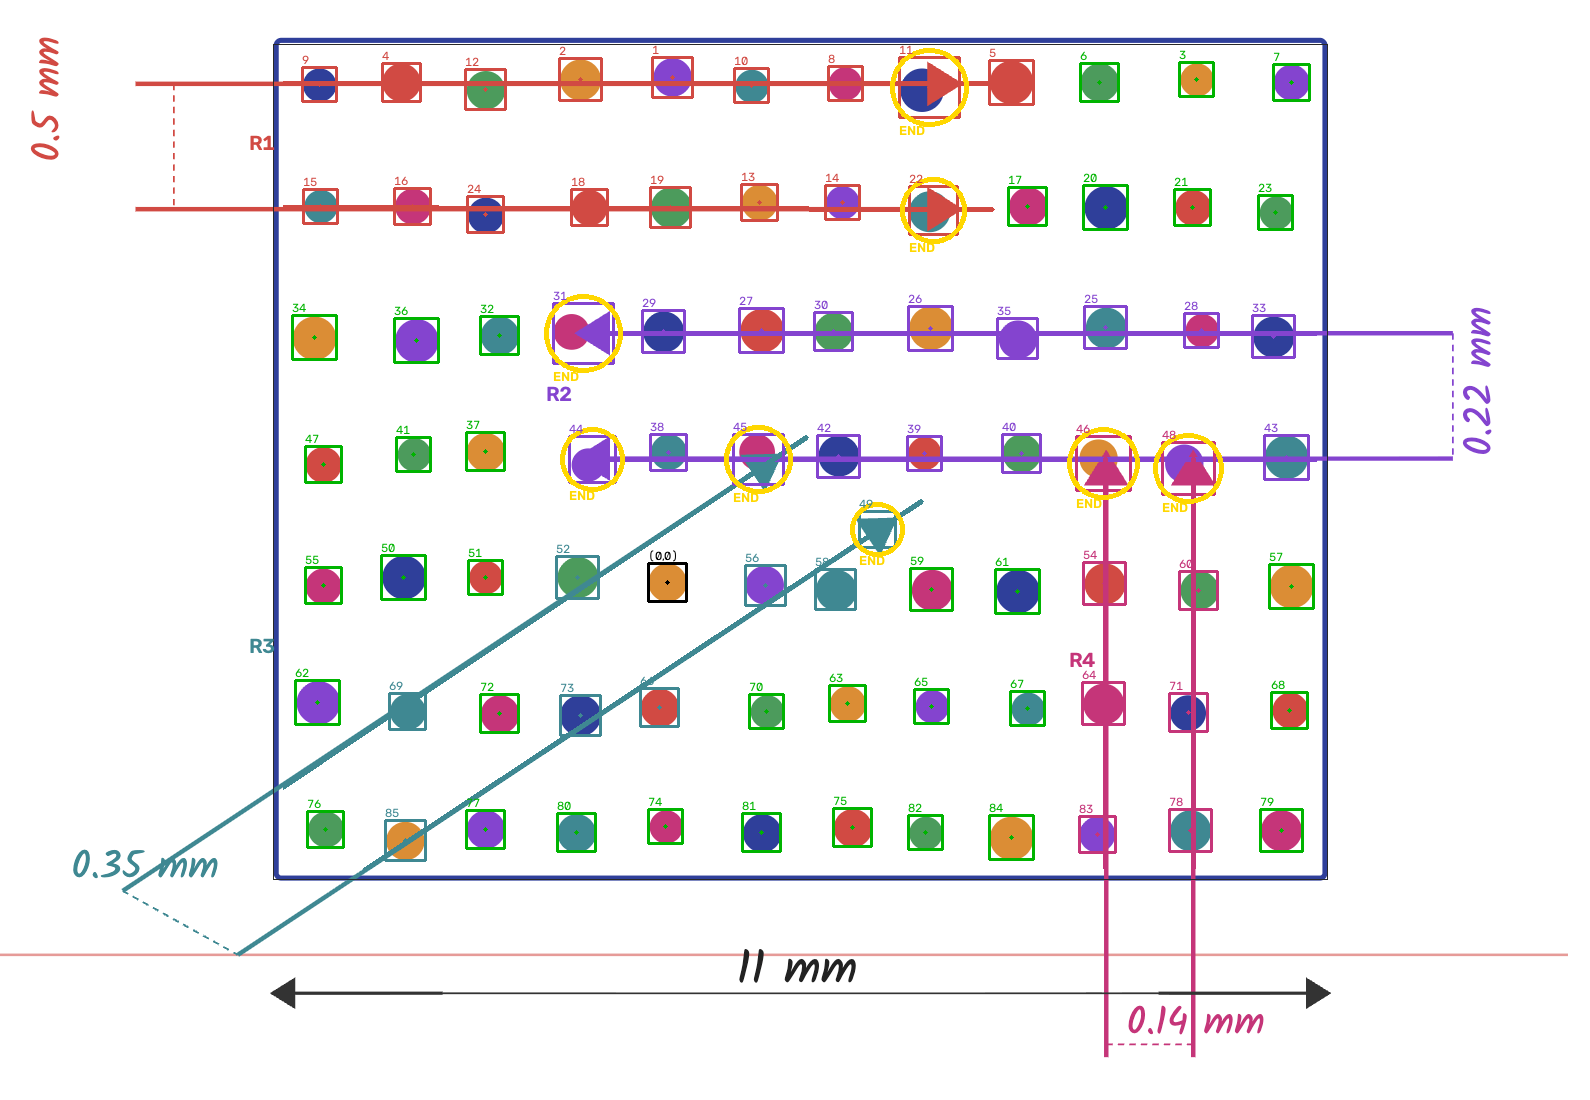
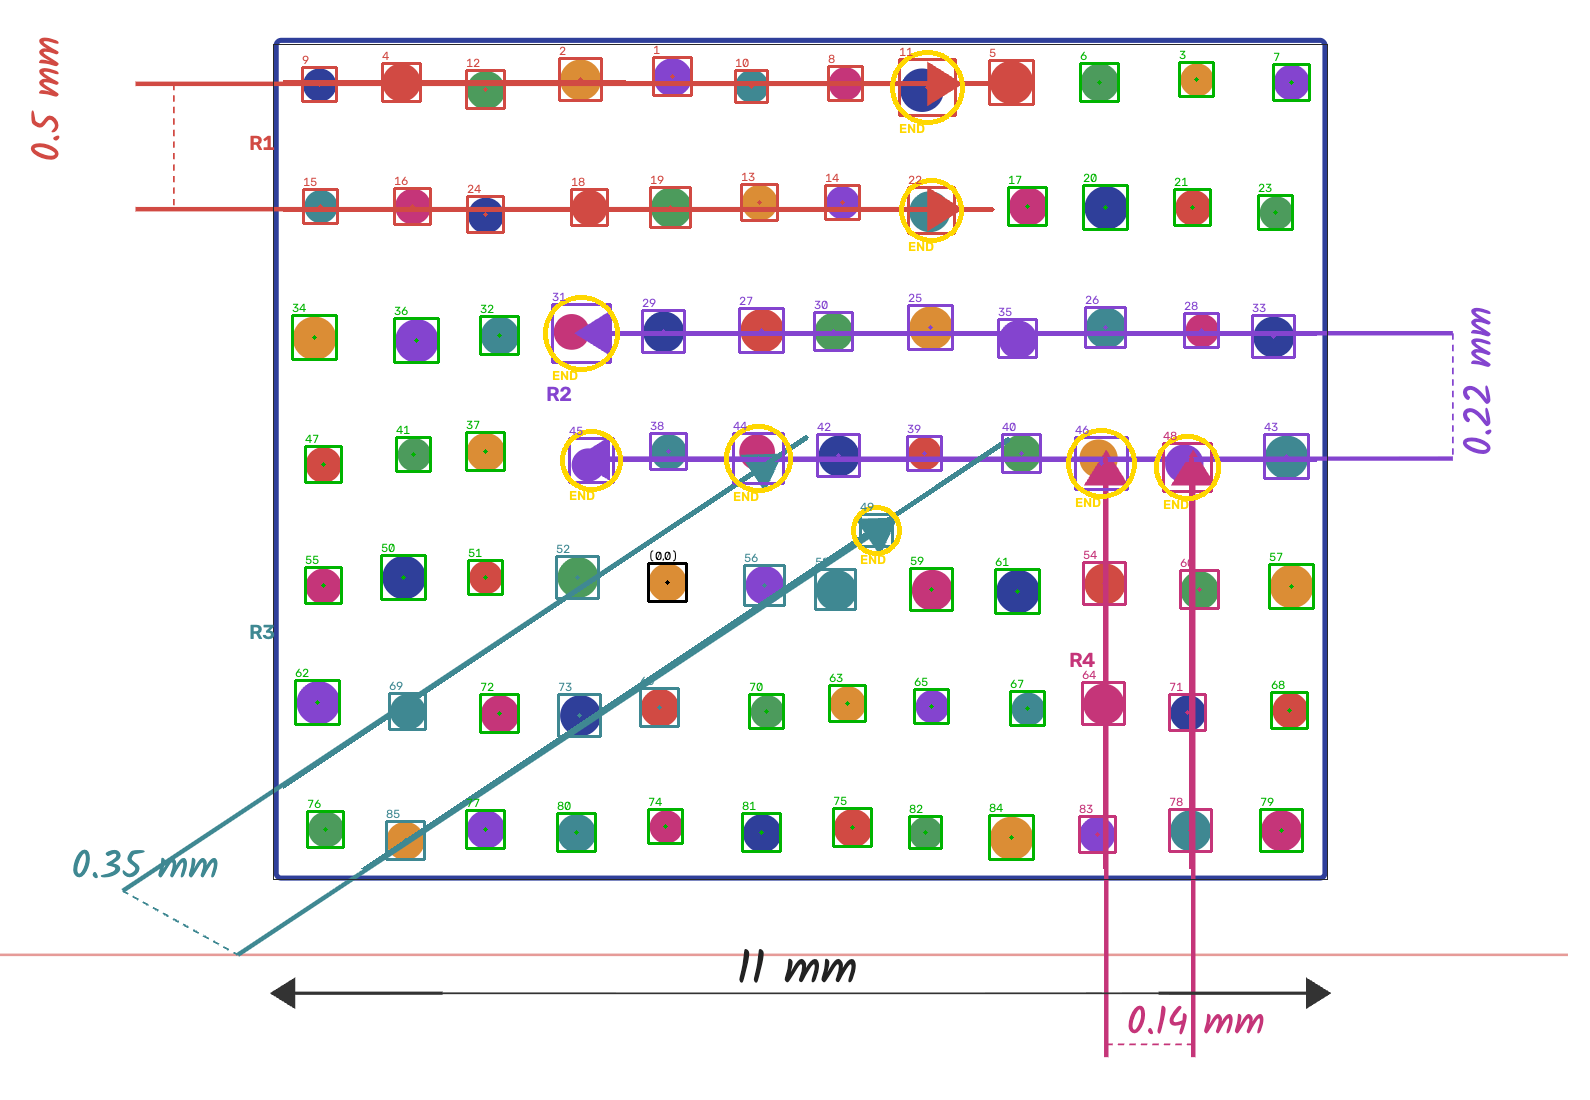
Fix detection on fine-pitch, densely populated drawings (BGA ball maps)
On a BGA-style drawing the pipeline detected almost nothing and invented a
reference group out of the package outline. Three separate causes:

RETR_EXTERNAL dropped every dot. Such drawings carry an inner frame
(package / ball-array outline) that ENCLOSES the dots, making each one a
nested child contour that RETR_EXTERNAL discards by definition. On a
22x22 fixture this detected 0 of 484 balls. Use RETR_LIST; the existing
area/radius/circularity filters reject the frame itself anyway.

The stroke-removal kernel was too timid. open_ksize = 0.55*r0 gives 5px
for r0~7, and a 5px ellipse still fits inside a 3px line, so no line was
ever removed and arrow detection was handed an empty mask. Size it just
under the dot radius instead, so it is wider than any stroke yet still
fits inside a dot.

Frames were read as measurement lines. A rectangle inside the square
turned each of its sides into an arrow and a whole colour group. Suppress
closed frames before Hough, keyed on how completely a contour fills its
bounding box — a frame is ~0.99, a knot of crossing leaders 0.56-0.73, so
real leaders stay. The four straight sides are painted rather than the
contour path, which detours along any leader crossing the frame and would
otherwise erase it end to end.

Also measure the dot PITCH and let the Hough gap span it: a stroke is
interrupted at every dot it crosses, and at 33px pitch the old 4*r0 gap
returned one leader as five unusable fragments.
[…]

diff --git a/run.py b/run.py
@@ -61,6 +61,11 @@ class Config:
     head_hue_tol: float = 12.0     # hue window used to isolate one arrow's own colour
     # FR-1 square (NO crop — mask interior only)
     roi_min_area_frac: float = 0.10
+    # frames drawn INSIDE the square (package / ball-array outline) are not
+    # measurement lines: a closed loop covering this much of the square is one
+    outline_min_area: float = 0.12   # fraction of the square's area
+    outline_rect_fill: float = 0.90  # a frame fills its own bounding box; a
+                                     # tangle of crossing leaders does not
     square_margin: int = 14        # inward margin from the border line (px)
     # FR-5 reference
     reference_strategy: str = "nearest_center"
@@ -72,8 +77,10 @@ class Config:
     calib_axis: str = "width"      # 'width' or 'height' of the square
     calib_pixels: float = 845.0    # used only when auto_calibrate is False
     calib_mm: float = 11.0
-    # filled in by adapt_parameters(): median dot radius, the pipeline's length unit
+    # filled in by adapt_parameters(): median dot radius (the pipeline's length
+    # unit) and the median centre-to-centre spacing of neighbouring dots
     dot_radius: Optional[float] = None
+    dot_pitch: Optional[float] = None
 
     @property
     def r0(self) -> float:
@@ -176,27 +183,50 @@ def adapt_parameters(bgr, mask, cfg):
     if not cfg.adaptive:
         return
     blobs = _nonwhite_mask(bgr, cfg) & mask
-    cnts, _ = cv2.findContours(blobs, cv2.RETR_EXTERNAL, cv2.CHAIN_APPROX_SIMPLE)
+    # RETR_LIST, not RETR_EXTERNAL: a drawing may carry an inner outline (package
+    # / ball-array border) that ENCLOSES the dots. Under RETR_EXTERNAL every dot
+    # is a nested child of that outline and is silently dropped — the whole grid
+    # would go undetected. The filters below reject the outline itself anyway.
+    cnts, _ = cv2.findContours(blobs, cv2.RETR_LIST, cv2.CHAIN_APPROX_SIMPLE)
     area_floor = 0.00002 * mask.size            # ignore specks, relative to image size
-    radii = []
+    radii, centers = [], []
     for c in cnts:
         a = cv2.contourArea(c)
         if a < area_floor:
             continue
-        (_, _), r = cv2.minEnclosingCircle(c)
+        (cx, cy), r = cv2.minEnclosingCircle(c)
         if r > 0 and a / (np.pi * r * r) > 0.7:  # round -> a dot (not a line/arrowhead)
             radii.append(r)
+            centers.append((cx, cy))
     if len(radii) < 5:                          # not enough evidence; keep defaults
         return
     r0 = float(np.median(radii))
     cfg.dot_radius = r0
+    # Dot PITCH, not just dot size: on a fine-pitch grid a stroke is interrupted
+    # at every dot it crosses, and Hough has to jump those blanks or the line
+    # comes back shattered into fragments too short to reconstruct.
+    if len(centers) >= 5:
+        p = np.asarray(centers, float)
+        step = 2048                                   # chunked: grids can be huge
+        nn = []
+        for i in range(0, len(p), step):
+            d = np.linalg.norm(p[i:i + step, None, :] - p[None, :, :], axis=2)
+            np.fill_diagonal(d[:, i:i + step], np.inf)
+            nn.append(d.min(1))
+        cfg.dot_pitch = float(np.median(np.concatenate(nn)))
     odd = lambda k: max(3, int(k) | 1)
     cfg.min_radius = max(3, int(0.45 * r0))
     cfg.max_radius = int(2.6 * r0)
     cfg.min_blob_area = int(0.30 * np.pi * r0 * r0)
-    cfg.open_ksize = odd(round(0.55 * r0))      # > line width, < dot diameter
+    # The opening must DESTROY strokes but KEEP dots, so the kernel has to be
+    # wider than any line yet still fit inside a dot. 0.55*r0 is too timid on
+    # fine-pitch drawings (r0~7 -> a 5px ellipse still fits inside a 3px line,
+    # so no line is ever removed and arrow detection sees nothing). Sit just
+    # under the dot radius instead, which scales safely in both directions.
+    cfg.open_ksize = odd(min(round(0.9 * r0), 2 * r0 - 3))
     cfg.min_line_length = int(3.0 * r0)
-    cfg.arrow_max_gap = int(4.0 * r0)           # jump over a dot + gap along a shaft
+    # jump over a dot + the blank to the next stroke fragment
+    cfg.arrow_max_gap = int(max(4.0 * r0, 1.4 * (cfg.dot_pitch or 0.0)))
     cfg.arrow_extend = int(1.6 * r0)
     cfg.arrow_rho_tol = max(8.0, 1.1 * r0)
     cfg.line_tolerance = max(4, int(0.55 * r0))
@@ -219,7 +249,7 @@ def detect_circles(bgr, mask, cfg) -> List[Circle]:
     blob = cv2.morphologyEx(blob, cv2.MORPH_OPEN,
                             cv2.getStructuringElement(cv2.MORPH_ELLIPSE,
                                                       (cfg.open_ksize, cfg.open_ksize)))
-    cnts, _ = cv2.findContours(blob, cv2.RETR_EXTERNAL, cv2.CHAIN_APPROX_SIMPLE)
+    cnts, _ = cv2.findContours(blob, cv2.RETR_LIST, cv2.CHAIN_APPROX_SIMPLE)  # see adapt_parameters
 
     raw = []
     for c in cnts:
@@ -240,7 +270,44 @@ def detect_circles(bgr, mask, cfg) -> List[Circle]:
     return out
 
 
-def detect_arrows(bgr, mask, cfg):
+def detect_outlines(bgr, mask, cfg, square_bbox):
+    """Strokes belonging to a closed FRAME (package outline, ball-array border).
+
+    A drawing often carries rectangles *inside* the detected square. They are
+    long straight coloured strokes, so arrow detection happily reports each side
+    as a measurement line and invents a whole reference group from them. A
+    measurement leader is an open stroke; a frame is a closed loop enclosing a
+    big share of the square, which is what separates them here — a long, thin
+    dimension line covers a fraction of a percent of that area.
+
+    Returns a mask of those frame strokes, to be subtracted before Hough.
+    """
+    H, W = mask.shape
+    out = np.zeros((H, W), np.uint8)
+    sq_area = max(1.0, float(square_bbox[2] * square_bbox[3]))
+    nonwhite = _nonwhite_mask(bgr, cfg)
+    cnts, _ = cv2.findContours(nonwhite, cv2.RETR_LIST, cv2.CHAIN_APPROX_SIMPLE)
+    for c in cnts:
+        area = cv2.contourArea(c)
+        if area < cfg.outline_min_area * sq_area:
+            continue
+        x, y, w, h = cv2.boundingRect(c)
+        # A rectangular frame fills its own bounding box (~1.0). A knot of
+        # crossing dimension lines spans a big box but fills far less of it,
+        # which is what keeps real leaders out of this mask.
+        if area / max(1.0, float(w * h)) < cfg.outline_rect_fill:
+            continue
+        # Paint the four straight sides, NOT the contour path: where a leader
+        # crosses the frame the contour detours along that leader, and following
+        # it would erase the leader over its whole length.
+        # The band must be wide enough to swallow the whole frame stroke: the
+        # bounding box hugs its OUTER edge, so a hairline band leaves the inner
+        # half behind and Hough still finds a line there.
+        cv2.rectangle(out, (x, y), (x + w, y + h), 255, max(5, int(cfg.r0)))
+    return out
+
+
+def detect_arrows(bgr, mask, cfg, square_bbox=None):
     """FR-3: extract each measurement arrow as a full connected stroke.
 
     Colour strokes (arrows) and filled dots are both saturated, so we isolate
@@ -258,6 +325,8 @@ def detect_arrows(bgr, mask, cfg):
                             cv2.getStructuringElement(cv2.MORPH_ELLIPSE,
                                                       (cfg.open_ksize, cfg.open_ksize)))
     thin = cv2.subtract(colored, cv2.dilate(dots, np.ones((3, 3), np.uint8)))
+    if square_bbox is not None:                # drop package / array frames
+        thin = cv2.subtract(thin, detect_outlines(bgr, mask, cfg, square_bbox))
 
     # Hough on the thin strokes; big gap jumps over the dots each arrow crosses
     segs = cv2.HoughLinesP(thin, 1, np.pi / 180, threshold=40,
@@ -631,7 +700,7 @@ def process_image(image_path, cfg):
     elif cfg.auto_calibrate and cfg.square_real_mm is None:
         cfg.calib_pixels = 0.0                     # no mm conversion requested
     circles = detect_circles(img, mask, cfg)      # FR-2
-    arrows = detect_arrows(img, mask, cfg)        # FR-3: colour-stroke arrows (+ real colour)
+    arrows = detect_arrows(img, mask, cfg, bbox)  # FR-3: colour-stroke arrows (+ real colour)
     groups = group_arrows_by_color(arrows, cfg)   # merge same-colour parallel pairs
     flag_measured(circles, arrows, groups, cfg)   # FR-4 (records reference number)
     ends = detect_line_ends(img, mask, arrows, cfg)              # FR-4b

diff --git a/tests/test_dense_grid.py b/tests/test_dense_grid.py
@@ -1,0 +1,97 @@
+"""Regression tests for fine-pitch, densely populated drawings (e.g. BGA ball maps).
+
+These exercise three failure modes that a coarse drawing never triggers:
+  * the drawing has an inner frame (package / ball-array outline) that ENCLOSES
+    every dot — nested contours must still be detected
+  * dots are small (r ~ 7px), so the stroke-removal kernel has to stay wider
+    than a line while still fitting inside a dot
+  * the frame's four sides must not be mistaken for measurement lines
+"""
+import os
+import sys
+
+import cv2
+import numpy as np
+
+sys.path.insert(0, os.path.dirname(os.path.dirname(os.path.abspath(__file__))))
+import run as R
+
+W, H = 1500, 1150
+N, BALL_R = 22, 7                     # 22 x 22 grid, ~33px pitch
+PKG = (150, 40, 40)                   # package outline
+FRAME = (110, 70, 30)                 # ball-array outline (encloses every ball)
+BALLS = [(150, 120, 60), (60, 120, 220), (60, 160, 60), (150, 60, 150),
+         (50, 50, 50), (60, 60, 200), (180, 110, 60), (140, 80, 190)]
+LEADERS = [((120, 300), (3, 2), (60, 110, 220)),      # (start, (row,col) target, colour)
+           ((1420, 600), (12, 18), (170, 60, 240)),
+           ((700, 1120), (17, 9), (60, 200, 120)),
+           ((80, 1100), (14, 5), (40, 60, 210))]
+PATH = os.path.join(os.path.dirname(os.path.abspath(__file__)), "_synthetic_bga.png")
+
+
+def build():
+    img = np.full((H, W, 3), 255, np.uint8)
+    cv2.rectangle(img, (300, 150), (1150, 1000), PKG, 3)
+    cv2.rectangle(img, (360, 205), (1090, 945), FRAME, 3)
+    rng = np.random.default_rng(7)
+    gx0, gy0, gx1, gy1 = 380, 225, 1070, 925
+    ctr = {}
+    for r in range(N):
+        for c in range(N):
+            p = (int(gx0 + (gx1 - gx0) * c / (N - 1)), int(gy0 + (gy1 - gy0) * r / (N - 1)))
+            cv2.circle(img, p, BALL_R, BALLS[rng.integers(len(BALLS))], -1)
+            ctr[(r, c)] = p
+    for start, rc, col in LEADERS:
+        cv2.arrowedLine(img, start, ctr[rc], col, 3, tipLength=0.05)
+    cv2.imwrite(PATH, img)
+    return img, ctr
+
+
+def check(name, cond, extra=""):
+    print(f"  {'PASS' if cond else 'FAIL'}  {name}{(' — ' + extra) if extra else ''}")
+    return bool(cond)
+
+
+def main():
+    img, ctr = build()
+    cfg = R.Config()
+    bbox, mask = R.detect_square(img, cfg)
+    r0 = R.adapt_parameters(img, mask, cfg)
+    circles = R.detect_circles(img, mask, cfg)
+    arrows = R.detect_arrows(img, mask, cfg, bbox)
+    groups = R.group_arrows_by_color(arrows, cfg)
+    R.flag_measured(circles, arrows, groups, cfg)
+    ends = R.detect_line_ends(img, mask, arrows, cfg)
+    R.flag_line_ends(circles, ends, R.arrow_group_map(groups), cfg)
+
+    total = N * N
+    ok = check("dot size measured", r0 and 4 <= r0 <= 11, f"r0={r0}")
+    # every ball is a NESTED contour inside the array frame
+    ok &= check("dots inside an enclosing frame are detected",
+                len(circles) >= 0.98 * total, f"{len(circles)}/{total}")
+    ok &= check("no wild over-detection", len(circles) <= 1.02 * total,
+                f"{len(circles)}/{total}")
+
+    def near(p, tol=12):
+        return next((c for c in circles if abs(c.x - p[0]) <= tol and abs(c.y - p[1]) <= tol), None)
+
+    missing = [rc for rc in ctr if near(ctr[rc]) is None]
+    ok &= check("no ball missed", not missing, f"missing {len(missing)}")
+
+    # the frame's sides must not become a reference group
+    fh = R._bgr_hue(FRAME)
+    clash = [i + 1 for i, g in enumerate(groups)
+             if min(abs(R._bgr_hue(g["color"]) - fh), 180 - abs(R._bgr_hue(g["color"]) - fh)) < 10]
+    ok &= check("array frame is not read as a measurement line", not clash,
+                f"groups {clash} share the frame's colour")
+
+    hit = sum(1 for _, rc, _ in LEADERS
+              if (c := near(ctr[rc])) is not None and c.at_line_end)
+    ok &= check("each leader's target ball is flagged AtLineEnd",
+                hit == len(LEADERS), f"{hit}/{len(LEADERS)}")
+    return ok
+
+
+if __name__ == "__main__":
+    print("dense grid / BGA")
+    sys.exit(0 if main() else 1)
